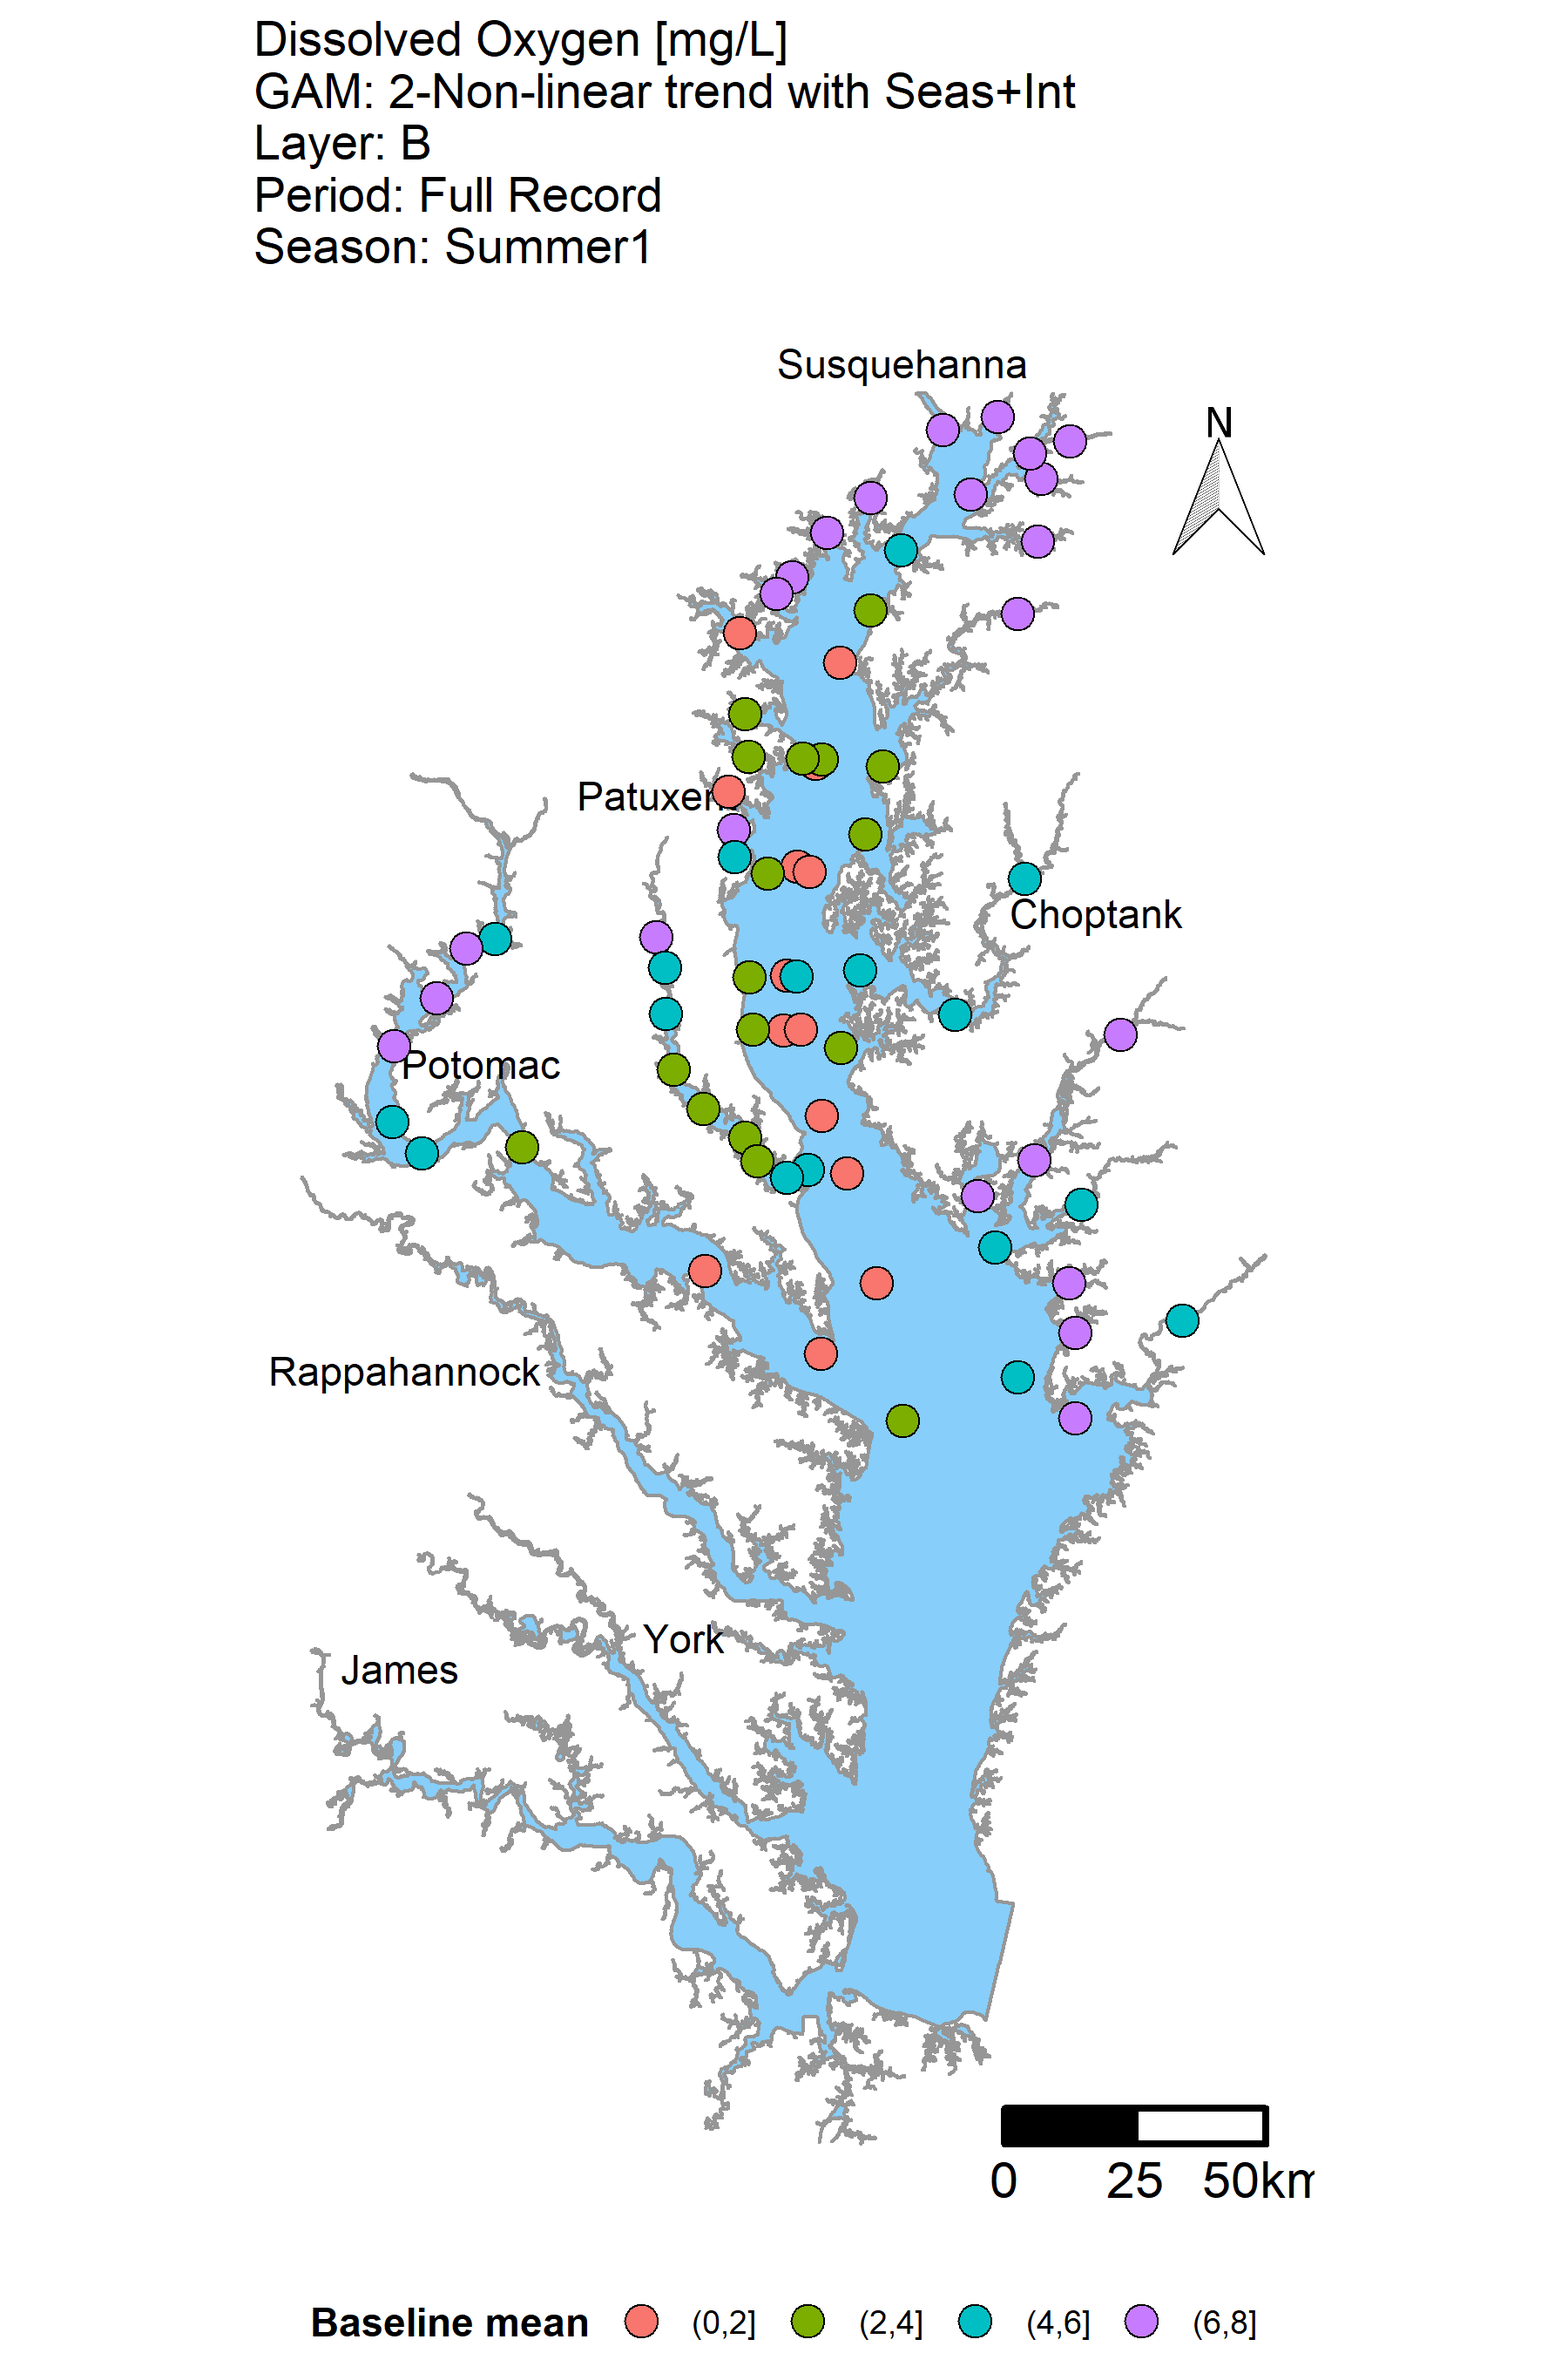
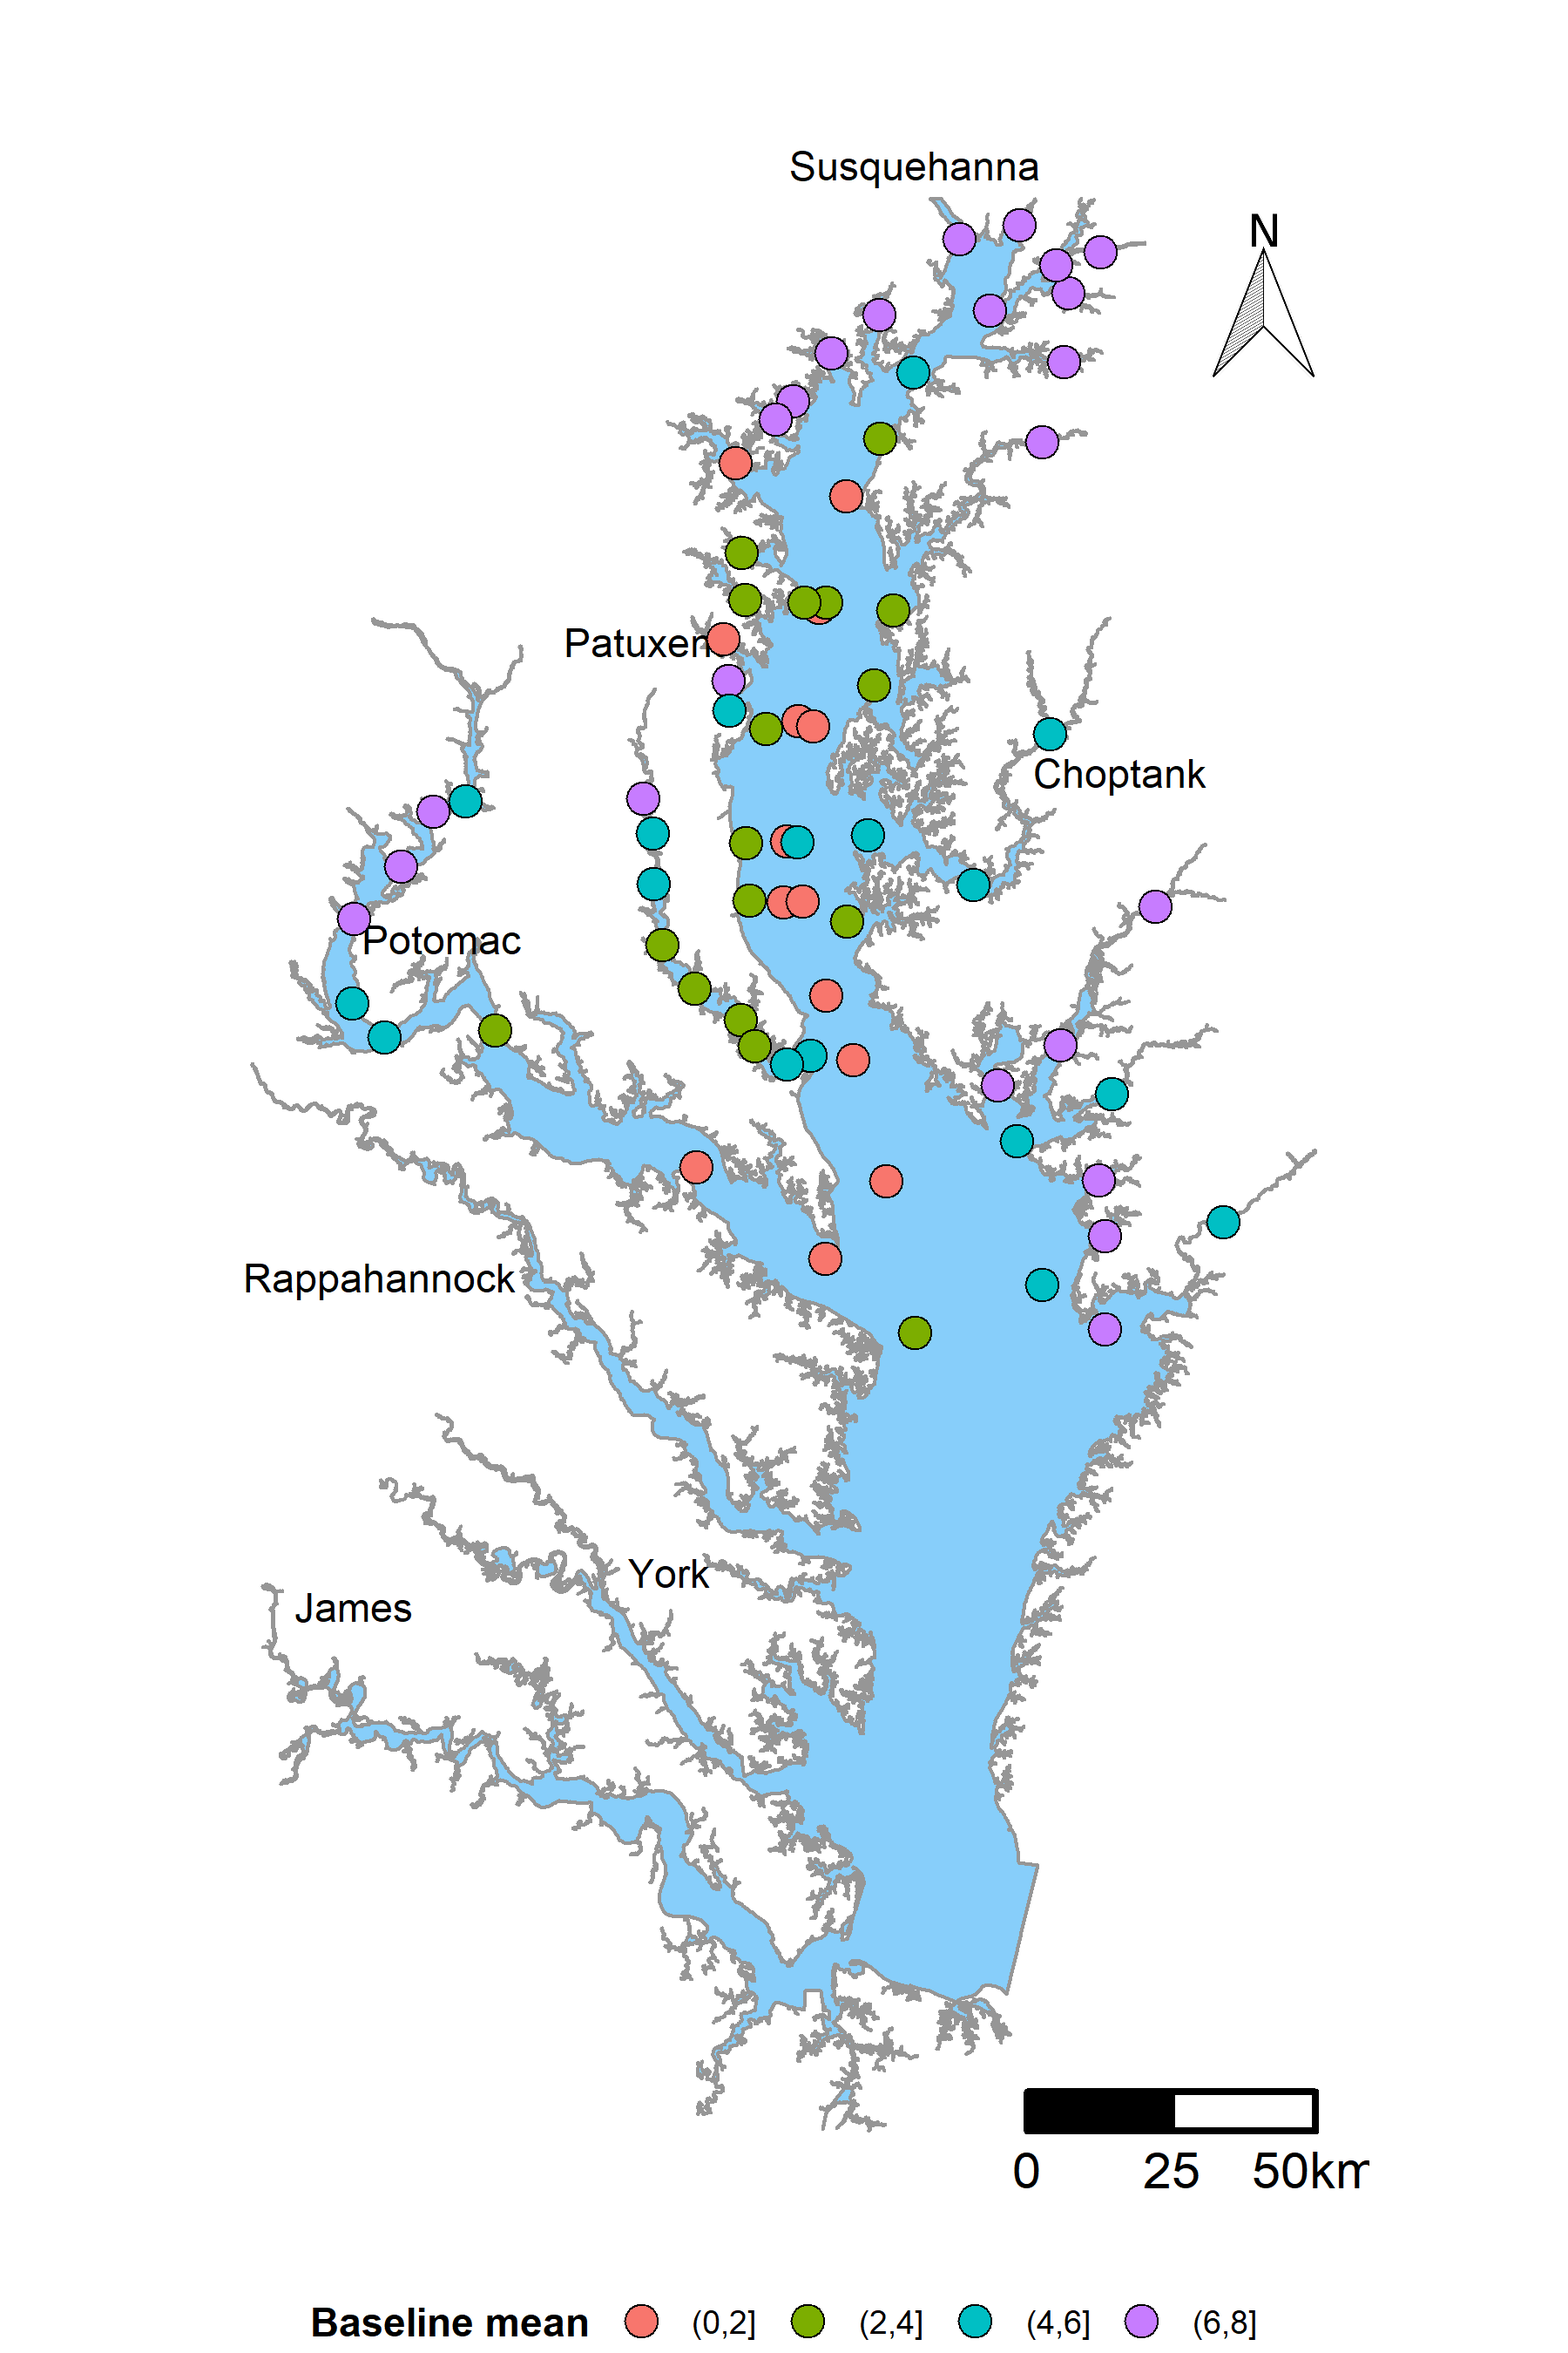
v1.0.0.9008
Update map titles to handle multiple selections from filters.  Issue #11

Changed region(s): [[0.1556, 0.0, 0.8711, 0.9333], [0.7778, 0.0933, 0.8089, 0.1556], [0.7467, 0.1867, 0.7778, 0.2178]]

diff --git a/NEWS.md b/NEWS.md
@@ -4,7 +4,13 @@ NEWS
 
 <!-- NEWS.md is generated from NEWS.Rmd. Please edit that file -->
 
-    #> Last Update: 2020-05-28 08:36:50
+    #> Last Update: 2020-05-28 09:18:55
+
+# baytrendsmap 1.0.0.9008
+
+Released - 2020-05-28
+
+  - Update map titles in case of multiple selections; Issue \#11
 
 # baytrendsmap 1.0.0.9007
 
